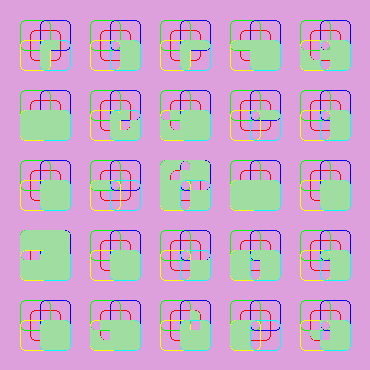
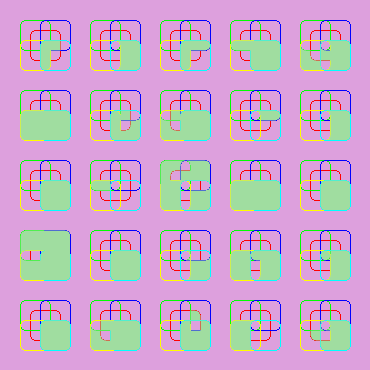
Rebaseline MSAA16 AA clip images. We now enable MSAA when stencil clipping if the clip element is AA.
git-svn-id: https://skia.googlecode.com/svn/trunk@4393 2bbb7eff-a529-9590-31e7-b0007b416f81

diff --git a/tools/compare_baselines.py b/tools/compare_baselines.py
@@ -104,8 +104,8 @@ def RunCommand(command):
     """
     print 'running command [%s]...' % command
     retval = os.system(command)
-    if retval is not 0:
-        raise Exception('command [%s] failed' % command)
+    #if retval is not 0:
+    #    raise Exception('command [%s] failed' % command)
 
 def FindPathToSkDiff(user_set_path=None):
     """Return path to an existing skdiff binary, or raise an exception if we
